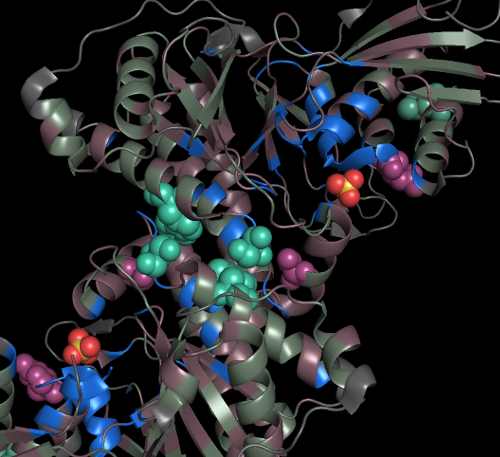
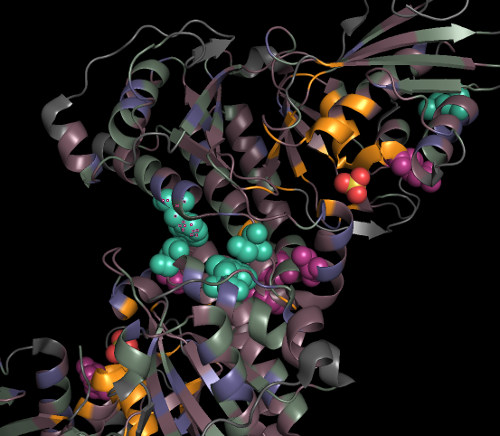
use three-tree mode

diff --git a/color_by_two-tree_likelihood.py b/color_by_two-tree_likelihood.py
@@ -2,7 +2,7 @@
 #
 # color_by_likelihood.py v1 2018-02-01
 
-'''color_by_likelihood.py v1.2 2018-03-05
+'''color_by_likelihood.py v1.1 2018-02-22
 
 in PyMOL, use by:
 
@@ -15,23 +15,38 @@ def color_likelihood(selection="all", whitebg=False):
 	# each color is RGB triplet, values ranging from 0 to 1, where black is 0 and white is 1
 	# colors should be:
 	# for values [ -1 gray
-	#            0 clay   1 pink   2 red
-	#            3 mud    4 teal   5 green
-	#            6 lead   7 cobalt 8 blue
-	#            9 orange ]
+	#            0 green   1   2
+	#            3 sea-green   4   5 teal
+	#            6 verdigris 7 mud
+	#            8 clay   9 pink   a
+	#            b rose   c        d
+	#            e red    f
+	#            16 blue ]
 
 	colors = [ [0.39, 0.39, 0.39] ,
-             [0.49,0.36,0.40] , [0.76,0.26,0.56] , [0.77,0.20,0.33] ,
-             [0.42,0.49,0.42] , [0.26,0.77,0.64] , [0.19,0.74,0.34] ,
-             [0.39,0.37,0.55] , [0.35,0.26,0.76] , [0.24,0.45,0.87] ,
-             [1.00,0.60,0.12] ]
+             [0.11,0.57,0.06] , [0.12,0.63,0.21] , [0.19,0.74,0.34] ,
+             [0.18,0.77,0.48] , [0.16,0.82,0.67] , [0.26,0.77,0.64] ,
+             [0.39,0.72,0.60] , [0.42,0.49,0.42] ,
+             [0.49,0.36,0.40] , [0.72,0.33,0.56] , [0.76,0.26,0.56] ,
+             [0.78,0.24,0.48] , [0.77,0.22,0.44] , [0.77,0.20,0.33] ,
+             [0.77,0.18,0.22] , [0.77,0.16,0.14] ,
+             [0.12,0.44,0.88] ]
 
-	if whitebg: # replaces colors -1, 0, 3, 6, 9
+	if whitebg: # replaces colors -1, 7, 8, 16
 		colors = [ [0.99,0.87,0.37] ,
-             [0.83,0.74,0.76] , [0.76,0.26,0.56] , [0.77,0.20,0.33] ,
-             [0.73,0.82,0.73] , [0.26,0.77,0.64] , [0.19,0.74,0.34] ,
-             [0.74,0.73,0.86] , [0.35,0.26,0.76] , [0.24,0.45,0.87] ,
-             [0.84,0.46,0.00] ]
+             [0.11,0.57,0.06] , [0.12,0.63,0.21] , [0.19,0.74,0.34] ,
+             [0.18,0.77,0.48] , [0.16,0.82,0.67] , [0.26,0.77,0.64] ,
+             [0.39,0.72,0.60] , [0.82,0.95,0.87] ,
+             [0.95,0.81,0.88] , [0.72,0.33,0.56] , [0.76,0.26,0.56] ,
+             [0.78,0.24,0.48] , [0.77,0.22,0.44] , [0.77,0.20,0.33] ,
+             [0.77,0.18,0.22] , [0.77,0.16,0.14] ,
+             [0.12,0.23,0.66] ]
+
+	# v1 values of blue to teal
+    #         [0.00,0.22,0.72] , [0.05,0.38,0.71] , [0.07,0.47,0.70] ,
+    #         [0.11,0.63,0.69] , [0.16,0.82,0.67] , [0.26,0.77,0.64] ,
+	# v1 constant color as green
+    #         [0.21,0.66,0.00] ]
 
 	# colors for:
 	# 7d7d00 dark yellow    b28b71 sand    640064 burgundy
@@ -40,16 +55,15 @@ def color_likelihood(selection="all", whitebg=False):
                  [0.59,0.39,0.00] , [0.47,0.33,0.51] , [0.29,0.39,0.10] ] 
 
 	groupnames = [ "gaps", 
-                  "t1-weak", "t1-strong", "t1-max",
-                  "t2-weak", "t2-strong", "t2-max",
-                  "t3-weak", "t3-strong", "t3-max",
+                  "t2max", "-5", "-4", "-3", "-2", "-1", "-0.5", "-0.1",
+                  "+0.1", "+0.5", "+1", "+2", "+3", "+4", "+5", "t1max",
                    "const" ]
 
 	bin_size = 1
-	NUMCOLORS = 11
+
 	# iterate through temperatureFactor value in PyMOL
 	# atoms with each value are selected and colored with the following steps
-	for i in range(NUMCOLORS):
+	for i in range(18):
 
 		lower = -1 + i
 		upper = lower + 0.99
@@ -58,12 +72,12 @@ def color_likelihood(selection="all", whitebg=False):
 		print lower, " = ", colors[i]
 
 		# Define a unique name for the atoms which fall into this group
-		groupname = groupnames[i] + "_grp" + str(i+1)
+		groupname = groupnames[i] + "_group_s" + str(i+1)
 
 		# Compose a selection command which will select all atoms with some beta value
 		sel_string = selection + " & ! b < " + str(lower)
 
-		if(i < NUMCOLORS - 1):
+		if(i < 18 - 1):
 			sel_string += " & b < " + str(upper)
 		else:
 			sel_string += " & ! b > " + str(upper)
@@ -85,7 +99,7 @@ def color_likelihood(selection="all", whitebg=False):
 	cmd.set_color("insufficient_color", insuf_color)
 
 	# color atoms with B-factor of 99 using the new color
-	cmd.select("insufficient", selection + " & b > 9")
+	cmd.select("insufficient", selection + " & b > 16")
 	cmd.color("insufficient_color", "insufficient")
 
 	if whitebg:

diff --git a/pdb_log_likelihood.py b/pdb_log_likelihood.py
@@ -2,7 +2,7 @@
 #
 # pdb_log_likelihood.py v1 2018-02-01
 
-'''pdb_log_likelihood.py  last modified 2018-02-20
+'''pdb_log_likelihood.py  last modified 2018-03-06
 
 pdb_log_likelihood.py -a PRP4B_HUMAN.aln -p 4ian.pdb -s PRP4B_HUMAN > 4ian_w_lnl.pdb
 
@@ -33,11 +33,12 @@ disordered or cleaved, the sequence still must start with residue 1
 import sys
 import time
 import argparse
-from collections import Counter
+from collections import Counter,defaultdict
 from Bio import AlignIO
 
-def get_alignment_values(alignmentlist, alignformat, targetidlist):
+def get_alignment_values(alignmentlist, alignformat, targetidlist, printw):
 	scoreindex_dict = {} # dict of dicts, where key is seqID, value is dict where key is position
+	score_counter = defaultdict(int)
 	for alignment,target_seqid in zip(alignmentlist,targetidlist):
 		print >> sys.stderr, "# Reading alignment from {}".format( alignment )
 		alignment = AlignIO.read( alignment, alignformat )
@@ -81,11 +82,13 @@ def get_alignment_values(alignmentlist, alignformat, targetidlist):
 						rankedscore = -1
 					elif lnlvalue == "x" or lnlvalue == "X": # constant sites
 						nongapcount += 1
-						rankedscore = 16
+						rankedscore = 9 # is 9 in T3 version
+						#rankedscore = 16 # is 16 in T2 version
 					else:
 						nongapcount += 1
 						rankedscore = int(lnlvalue,16) # base 16 string to integer
 					index_to_score[targetcount] = rankedscore
+					score_counter[rankedscore] += 1
 			print >> sys.stderr, "# Found likelihood for {} sites for {}".format( nongapcount, target_seqid )
 			scoreindex_dict[target_seqid] = index_to_score
 		elif scoretype=="Heteropecilly_score":
@@ -106,8 +109,13 @@ def get_alignment_values(alignmentlist, alignformat, targetidlist):
 						nongapcount += 1
 						rankedscore = int(hpvalue)
 					index_to_score[targetcount] = rankedscore
+					score_counter[rankedscore] += 1
 			print >> sys.stderr, "# Found heteropecilly for {} sites for {}".format( nongapcount, target_seqid )
 			scoreindex_dict[target_seqid] = index_to_score
+	if printw:
+		print >> sys.stderr, "# SCORES ARE: T1:{}, T2:{}, T3:{}".format(score_counter[1] + score_counter[2], score_counter[4] + score_counter[5], score_counter[7] + score_counter[8])
+		for k,v in score_counter.iteritems():
+			print >> sys.stderr, "#{}\t{}".format(k,v)
 	return scoreindex_dict
 
 def rewrite_pdb(pdbfile, seqidlist, scoredict, wayout, forcerecode, colorgaps, heterocolors):
@@ -218,6 +226,7 @@ def main(argv, wayout):
 	parser.add_argument("-f","--format", default="fasta", help="alignment format [fasta]")
 	parser.add_argument("-p","--pdb", help="PDB format file", required=True)
 	parser.add_argument("-s","--sequence", nargs="*", help="sequence ID for PDB", required=True)
+	parser.add_argument("-w","--w", action="store_true", help="extra output")
 	parser.add_argument("--color-gaps", action="store_true", help="use dark colors to uniquely color gaps of up to 6 chains")
 	parser.add_argument("--force-recode", action="store_true", help="force recoding regardless of chain")
 	parser.add_argument("--heteroatoms", action="store_true", help="color heteroatoms")
@@ -226,7 +235,7 @@ def main(argv, wayout):
 	if len(args.alignment) != len(args.sequence):
 		print >> sys.stderr, "ERROR: {} ALIGNMENTS FOR {} SEQUENCES, MUST BE EQUAL, CHECK -a AND -s".format(len(args.alignment), len(args.sequence)), time.asctime()
 
-	scoredict = get_alignment_values( args.alignment, args.format, args.sequence)
+	scoredict = get_alignment_values( args.alignment, args.format, args.sequence, args.w)
 	if scoredict: # indicating that the sequence was found and something was calculated
 		rewrite_pdb(args.pdb, args.sequence, scoredict, wayout, args.force_recode, args.color_gaps, args.heteroatoms)
 	else:

diff --git a/README.md b/README.md
@@ -61,11 +61,11 @@ Here the two proteins ARNT and HIF1a are colored red and green, respectively. Tw
 ![4zpr_w_id.png](https://github.com/wrf/pdbcolor/blob/master/examples/4zpr_w_id.png)
 
 ## RAxML site-wise likelihood ##
-For an alignment and a series of phylogenetic trees with fixed topologies, [RAxML](https://sco.h-its.org/exelixis/web/software/raxml/index.html) can produce a table of site-wise log-likelihoods for each tree topology (using the `-f G` option). The difference between two topologies can be computed for each site (the "dlnL"), showing which sites contribute strongly to one topology or the other. These dlnL values are recoded to a hex string where a dlnL of 0 becomes exactly 8.0 to include the range of values but also permit each value to be coded as a single character (for display as a fasta sequence). 
+For an alignment and a series of phylogenetic trees with fixed topologies, [RAxML](https://sco.h-its.org/exelixis/web/software/raxml/index.html) can produce a table of site-wise log-likelihoods for each tree topology (using the `-f G` option). The difference between the top two topologies (out of 3) can be computed for each site (the "dlnL"), showing which sites contribute strongly to one topology or the other. These dlnL values are recoded to a string of numbers (0-8) where the dlnL refers to the max minus the median and favors whichever topology had the maximum likelihood. Likewise, constants are coded as `x`. This also permits each value to be coded as a single character (for display as a fasta sequence).
 
-While most sites are marginally different - values between -0.5 and 0.5 - colored mud (7) and rust (8), a small number of sites have a strong effect on the likelihood of the final tree, colored in green/teal (0-6) for sites that favor the second tree and bright pink (9-f) for sites favoring the first tree. The scripts to make use of this assume that proteins and site-wise likelihood values derive from a protein supermatrix. Because proteins in supermatrices are often trimmed compared to the complete sequence, any missing values are colored gray as gaps. Sites that were constant in the alignment need to be recoded as such, and are then colored blue in the resulting protein.
+While most sites are marginally different - values between 0 and 0.5 - colored rust (0), mud (3) and lead (6), a small number of sites have a strong effect on the likelihood of the final tree, colored in pink/red (1,2) for sites favoring tree 1, teal/green (4,5) for tree 2, and cobalt/blue (7,8) for tree 3. The scripts to make use of this assume that proteins and site-wise likelihood values derive from a protein supermatrix. Because proteins in supermatrices are often trimmed compared to the complete sequence, any missing values are colored gray (-1) as gaps. Sites that were constant in the alignment need to be recoded as such, and are then colored orange in the resulting protein.
 
-![likelihood_color_scheme_w_tree.png](https://github.com/wrf/pdbcolor/blob/master/svg/likelihood_color_scheme_w_tree.png)
+![likelihood_color_scheme_w_tree_v2.png](https://github.com/wrf/pdbcolor/blob/master/svg/likelihood_color_scheme_w_tree_v2.png)
 
 Detailed instructions are currently in the [heteropecilly github repo](https://github.com/wrf/heteropecilly)
 
@@ -79,7 +79,7 @@ The workflow is meant to begin from a supermatrix, meaning a lot of other data n
 6) Run `pdb_log_likelihood.py` to recode the ATOM records in the PDB file of the protein of interest.
 7) View in PyMOL, and run the `color_by_likelihood.py` script in the PyMOL console.
 
-For example, in the analysis by [Shen et al 2017](https://www.nature.com/articles/s41559-017-0126) using the [Whelan2015-D1-Opisthokont](https://figshare.com/articles/Error_signal_and_the_placement_of_Ctenophora_sister_to_all_other_animals/1334306) set, [STT3B](http://www.uniprot.org/uniprot/Q8TCJ2) was identified as an outlier. STT3B is the catalytic subunit of the oligosaccharyltransferase complex. It contains 21 strong sites, where 20 favor one topology (ctenophora-sister) and 1 favors the other (porifera-sister). A human crystal structure was unavailable, but was instead [modeled](https://swissmodel.expasy.org/repository/uniprot/Q8TCJ2) after the structure of the complex in yeast: [6EZN](https://www.rcsb.org/structure/6ezn) (see [Wild et al 2018 Structure of the yeast oligosaccharyltransferase complex gives insight into eukaryotic N-glycosylation](http://science.sciencemag.org/content/359/6375/545)). 
+For example, in the analysis by [Shen et al 2017](https://www.nature.com/articles/s41559-017-0126) using the [Whelan2015-D1-Opisthokont](https://figshare.com/articles/Error_signal_and_the_placement_of_Ctenophora_sister_to_all_other_animals/1334306) set, [STT3B](http://www.uniprot.org/uniprot/Q8TCJ2) was identified as an outlier. STT3B is the catalytic subunit of the oligosaccharyltransferase complex. It contains 22 strong sites, where 20 favor one topology (ctenophora-sister), 1 favors another (porifera-sister), and 1 favors the third. A human crystal structure was unavailable, but was instead [modeled](https://swissmodel.expasy.org/repository/uniprot/Q8TCJ2) after the structure of the complex in yeast: [6EZN](https://www.rcsb.org/structure/6ezn) (see [Wild et al 2018 Structure of the yeast oligosaccharyltransferase complex gives insight into eukaryotic N-glycosylation](http://science.sciencemag.org/content/359/6375/545)). 
 
 `~/git/pdbcolor/pdb_log_likelihood.py -a examples/26999-27593-STT3B_HUMAN.aln -p STT3B_HUMAN_mod_from_6ezn.pdb -s STT3B_HUMAN > STT3B_HUMAN_mod_from_6ezn_w_lnl.pdb`
 
@@ -89,11 +89,11 @@ The complex overall is membrane bound in the ER, where a large bundle of helices
 
 For some cases where the `DBREF` field and the sequence name do not match, perhaps as the gene was renamed or an old structure was used, use the `--force-recode` option to recode the atoms regardless of the gene name or chains in the `DBREF` fields. For the example alignment and protein structure `3d4j.pdb` ([downloaded here](https://www.rcsb.org/structure/3d4j)), the `DBREF` uses an old name from the yeast homolog `ERG19`, referring to *ergosterol biosynthesis 19*.
 
-`pdb_log_likelihood.py -a examples/16098-16392-MVD1_HUMAN.aln -s MVD1_HUMAN -p 3d4j.pdb --force-recode > 3d4j_w_lnl.pdb`
+`pdb_log_likelihood.py -a examples/59546-59840-MVD1_HUMAN.aln -s MVD1_HUMAN -p 3d4j.pdb --force-recode > 3d4j_w_lnl.pdb`
 
 ![3d4j_w_lnl.png](https://github.com/wrf/pdbcolor/blob/master/examples/3d4j_w_lnl.png)
 
-This protein is called diphosphomevalonate decarboxylase ([MVD1_HUMAN](http://www.uniprot.org/uniprot/P53602)) in humans. The protein is a homodimer (see [Voynova et al 2008 Human mevalonate diphosphate decarboxylase: Characterization, investigation of the mevalonate diphosphate binding site, and crystal structure](https://www.ncbi.nlm.nih.gov/pmc/articles/PMC2709241/)), and two pori-sis-favoring residues (teal) can be seen involved in the dimerization interface of the two C-terminal domains. Rather unusually, these two residues (S275 and W282) are F and R, respectively, in most opisthokonts and many sponges, suggesting that sponges retained the ancestral state for these residues, which is why pori-sis is the favored topology. Potentially, the R guanidinium can interact with the pi-electron cloud of F, and may still support dimerization. The constant region (blue, with sulfate bound) is the active site of the enzyme.
+This protein is called diphosphomevalonate decarboxylase ([MVD1_HUMAN](http://www.uniprot.org/uniprot/P53602)) in humans. The protein is a homodimer (see [Voynova et al 2008 Human mevalonate diphosphate decarboxylase: Characterization, investigation of the mevalonate diphosphate binding site, and crystal structure](https://www.ncbi.nlm.nih.gov/pmc/articles/PMC2709241/)), and two pori-sis-favoring residues (teal) can be seen involved in the dimerization interface of the two C-terminal domains. Rather unusually, these two residues (S275 and W282) are F and R, respectively, in most opisthokonts and many sponges, suggesting that sponges retained the ancestral state for these residues, which is why pori-sis is the favored topology. Potentially, the R guanidinium can interact with the pi-electron cloud of F, and may still support dimerization. The constant region (orange, with sulfate bound) is the active site of the enzyme.
 
 For PDB files that contain multiple proteins, additional alignments can optionally be listed with `-a`. The corresponding protein ID must be given in the same order with `-s`.
 
